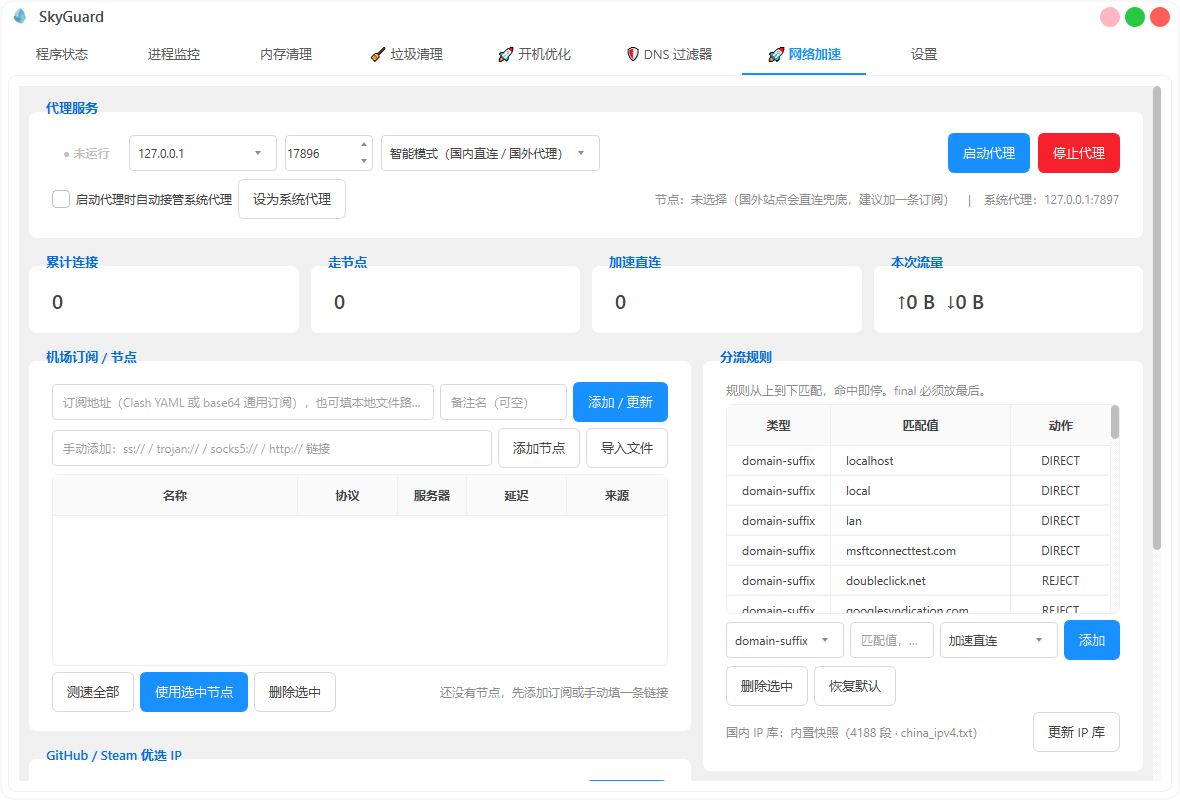
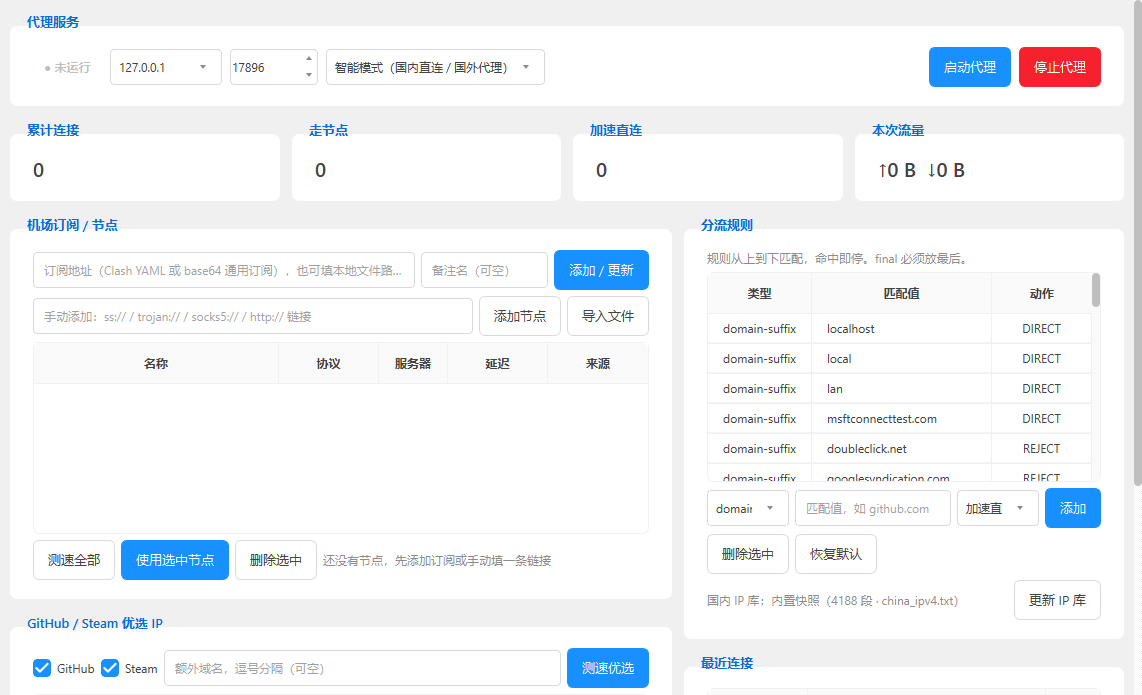
🎨 统一 DNS 过滤器与网络加速两页的布局行为
- 修复：网络加速页内容最小宽度 998px 超出视口（DNS 页 756px），窄窗口下
  出现横向滚动条、右侧分组被裁切，两页观感不一致（"缩放"问题）
- 长提示标签改为可换行；下拉框最小宽度从全局 100px 收到 64px
  （宽窗口仍按内容自然展开，不截断显示）
- 网络加速页最小宽度 998 → 722，与 DNS 页（756）行为一致：
  ≥756px 都完整显示，更窄时同时折叠

diff --git a/ui/accel_page.py b/ui/accel_page.py
@@ -157,6 +157,14 @@ class AccelPage(QWidget):
         self.refresh_status()
 
     # -- 服务控制 ----------------------------------------------------
+    def _shrinkable_combo(self, combo):
+        """下拉框允许收窄：只把最小宽度降到 64px，宽窗口下仍按内容自然展开。
+
+        DNS 页与代理页保持一致的收缩行为，窄窗口时不会把页面撑出横向滚动。
+        """
+        # 覆盖全局 QSS 的 min-width: 100px，让窄窗口下可以折叠
+        combo.setStyleSheet("QComboBox { min-width: 64px; }")
+
     def _build_control_group(self):
         group = QGroupBox("代理服务")
         box = QVBoxLayout()
@@ -172,6 +180,7 @@ class AccelPage(QWidget):
         self.listen_host.addItems(["127.0.0.1", "0.0.0.0"])
         self.listen_host.setCurrentText(self.config_manager.proxy_host)
         self.listen_host.setToolTip("0.0.0.0 表示允许局域网其他设备使用本机代理")
+        self._shrinkable_combo(self.listen_host)
         row.addWidget(self.listen_host)
 
         self.listen_port = QSpinBox()
@@ -185,6 +194,7 @@ class AccelPage(QWidget):
         self.mode_combo.setCurrentIndex(
             max(0, [v for _, v in MODE_LABELS].index(self.config_manager.proxy_mode)))
         self.mode_combo.currentIndexChanged.connect(self.on_mode_changed)
+        self._shrinkable_combo(self.mode_combo)
         row.addWidget(self.mode_combo)
 
         row.addStretch()
@@ -214,8 +224,12 @@ class AccelPage(QWidget):
 
         self.status_detail = QLabel("")
         self.status_detail.setStyleSheet("color: #8c8c8c;")
-        row2.addWidget(self.status_detail)
-        box.addLayout(row2)
+        # 允许换行并放开最小宽度限制，窄窗口时折叠而不是把整页撑出横向滚动
+        self.status_detail.setWordWrap(True)
+        self.status_detail.setMinimumWidth(0)
+        self.status_detail.setSizePolicy(self.status_detail.sizePolicy().horizontalPolicy(),
+                                         self.status_detail.sizePolicy().verticalPolicy())
+        row2.addWidget(self.status_detail, 1)
 
         group.setLayout(box)
         return group
@@ -313,7 +327,8 @@ class AccelPage(QWidget):
         row3.addStretch()
         self.sub_hint = QLabel("还没有节点，先添加订阅或手动填一条链接")
         self.sub_hint.setStyleSheet("color: #8c8c8c;")
-        row3.addWidget(self.sub_hint)
+        self.sub_hint.setWordWrap(True)
+        row3.addWidget(self.sub_hint, 1)
         box.addLayout(row3)
 
         group.setLayout(box)
@@ -367,7 +382,8 @@ class AccelPage(QWidget):
         row3.addStretch()
         self.accel_hint = QLabel("")
         self.accel_hint.setStyleSheet("color: #8c8c8c;")
-        row3.addWidget(self.accel_hint)
+        self.accel_hint.setWordWrap(True)
+        row3.addWidget(self.accel_hint, 1)
         box.addLayout(row3)
 
         group.setLayout(box)
@@ -398,6 +414,7 @@ class AccelPage(QWidget):
         for rtype in RULE_TYPES:
             self.rule_type.addItem(rtype)
         self.rule_type.setToolTip("domain-suffix：域名后缀；ip-cidr：IP 段；final：兜底")
+        self._shrinkable_combo(self.rule_type)
         row.addWidget(self.rule_type, 1)
         self.rule_value = QLineEdit()
         self.rule_value.setPlaceholderText("匹配值，如 github.com")
@@ -405,6 +422,7 @@ class AccelPage(QWidget):
         self.rule_action = QComboBox()
         for label, value in ACTION_LABELS:
             self.rule_action.addItem(label, value)
+        self._shrinkable_combo(self.rule_action)
         row.addWidget(self.rule_action, 1)
         add_btn = QPushButton("添加")
         add_btn.clicked.connect(self.on_add_rule)
